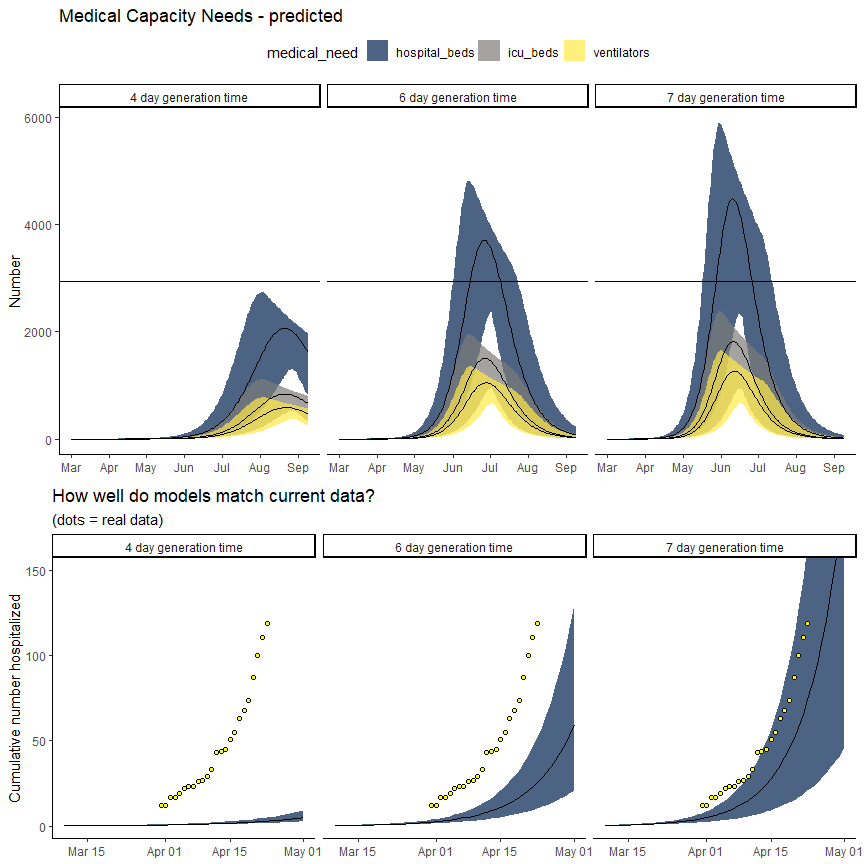
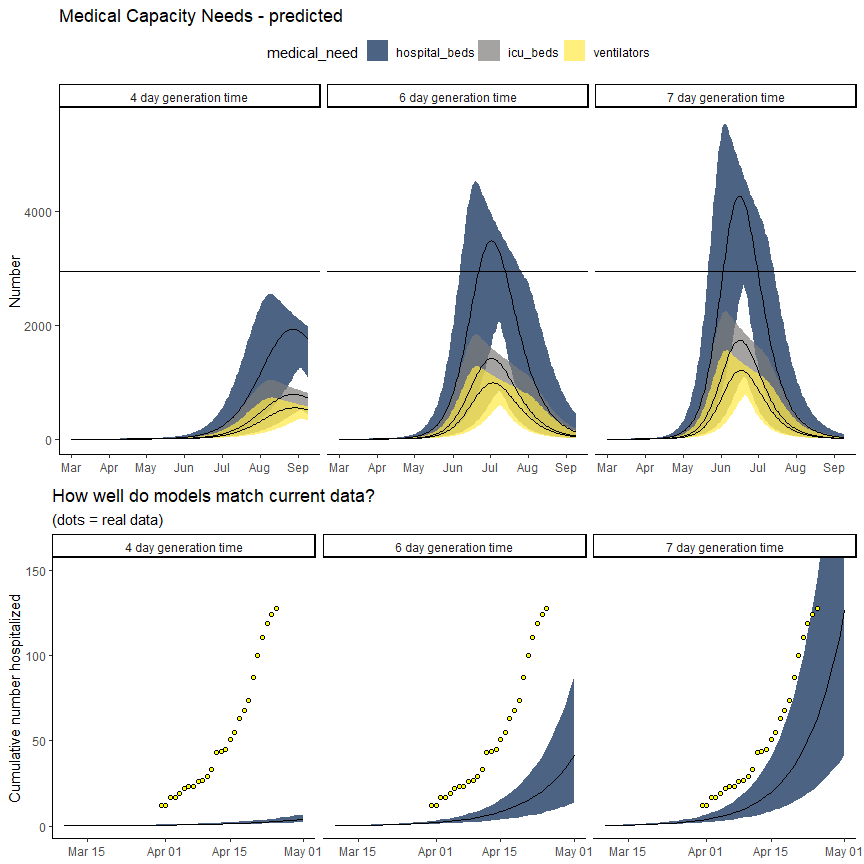
update april 25

diff --git a/README.md b/README.md
@@ -1,6 +1,6 @@
 COVID-19 modeling in South Dakota
 ================
-April 23, 2020
+April 25, 2020
 
 # Authors
 
@@ -61,11 +61,7 @@ as a normal distribution with a mean *mu\[i\]* and standard deviation
 prior distributions for each parameter are below the regression
 equation.
 
-The outcome of that regression is below. It shows a clear dip in
-incidence over the last 3-4 days, though this has had a minimal effect
-thus far on our estimates of *r*. More importantly, our main comparison
-to model fit is the number of cumulative hospitalizations, which
-continue to track the model predictions (scroll below for the graph).
+The outcome of that regression is below.
 
 ![](README_files/figure-gfm/unnamed-chunk-6-1.png)<!-- -->
 
@@ -80,9 +76,9 @@ samples from these values were entered into the following SIR model:
 
 | generation\_time | mean |   sd |
 | :--------------- | ---: | ---: |
-| GT4              | 1.48 | 0.03 |
-| GT6              | 1.71 | 0.05 |
-| GT7              | 1.83 | 0.06 |
+| GT4              | 1.45 | 0.03 |
+| GT6              | 1.68 | 0.05 |
+| GT7              | 1.79 | 0.05 |
 
 Table 1. R0 values and generation times (days) used to fit the SIR
 model.
@@ -93,10 +89,11 @@ where gamma is 1/days\_infected, beta is gamma\*R0, days\_infect is 7,
 and N is S+I+R. We simulated 200 days of infection and assumed starting
 values for S = 0.99999, I = 0.000001, and R = 0.000009.
 
-![](README_files/figure-gfm/unnamed-chunk-10-1.png)<!-- --> The graphs
-above show the outcome of the SIR model under 4, 6, or 7 day generation
-times. Lines are the mean predictions, shaded areas are the 2.5 and
-97.5% quantiles, and the dots are the reported data from SD DOH.
+![](README_files/figure-gfm/unnamed-chunk-10-1.png)<!-- -->
+
+The graphs above show the outcome of the SIR model under 4, 6, or 7 day
+generation times. Lines are the mean predictions, shaded areas are the
+2.5 and 97.5% quantiles, and the dots are the reported data from SD DOH.
 
 \#Hospital Beds, ICU beds, and Ventilators From the predictions of cases
 above, we estimated the number of hospital beds, ICU beds, and
@@ -123,9 +120,9 @@ hospitalization data. It indicates that peak resource use will occur
 
 | Need          | Mean | Lower95 | Upper95 |
 | :------------ | ---: | ------: | ------: |
-| Hospital Beds | 4476 |    2343 |    5884 |
-| ICU Beds      | 1818 |     947 |    2385 |
-| Ventilators   | 1265 |     666 |    1651 |
+| Hospital Beds | 4265 |    2714 |    5539 |
+| ICU Beds      | 1733 |    1089 |    2245 |
+| Ventilators   | 1206 |     767 |    1556 |
 
 Table 2. Estimated peak medical needs in South Dakota. Dates for peak
 need are currently projected as early June, 2020.
